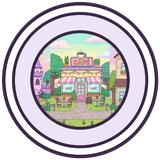
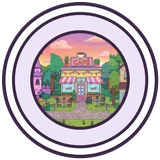
Use the sunset scene selector picture

Changed region(s): [[0.1875, 0.1875, 0.8125, 0.8125]]

diff --git a/app.js b/app.js
@@ -2,7 +2,7 @@ import { createSaver, NewerSaveError, NotABackupError } from './save.js';
 import { startGame } from './game.js';
 
 // Set with: python tools/release.py 1.2.3 (keeps sw.js in step).
-const VERSION = '0.4.1';
+const VERSION = '0.4.2';
 
 const $ = (id) => document.getElementById(id);
 $('panel-version').textContent = VERSION;

diff --git a/sw.js b/sw.js
@@ -1,6 +1,6 @@
 // Set the version with: python tools/release.py 1.2.3 (also updates app.js).
 // That is what tells tablets there is an update to download.
-const VERSION = '0.4.1';
+const VERSION = '0.4.2';
 const CACHE = 'izzys-world-' + VERSION;
 
 // Every file the game needs to run offline. Filled in by tools/release.py.

diff --git a/tools/prepare_art.py b/tools/prepare_art.py
@@ -13,7 +13,7 @@ SRC = ROOT / "art-source"
 ART = ROOT / "art"
 
 BACKGROUNDS = {
-    "places/world_bg.webp": "Main World scene selector/Main world scene selector-page.jpg",
+    "places/world_bg.webp": "Main World scene selector/main scene selector (sunset).jpg",
     "places/house_living_bg.webp": "House Interior/living room interior.jpg",
     "places/house_bedroom_bg.webp": "House Interior/bedroom interior.jpg",
     "places/house_kitchen_bg.webp": "House Interior/kitchen interior.jpg",
